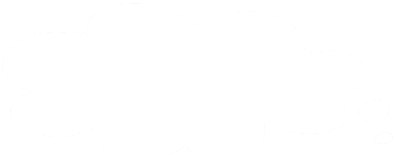
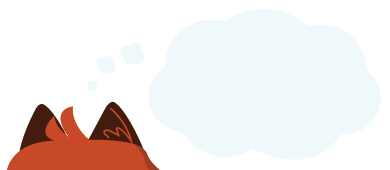
Ajustes gráficos de Toto

Changed region(s): [[0.0, 0.5935, 0.4308, 1.0]]

diff --git a/ejerciciosPilas/src/escenas/libroPrimaria/EscenaToto.ts b/ejerciciosPilas/src/escenas/libroPrimaria/EscenaToto.ts
@@ -40,7 +40,8 @@ abstract class EscenaToto extends EscenaDesdeMapa {
 
     ajustarGraficos() {
         this.automata.enviarAlFrente();
-        this.automata.escala *= this.escalaSegunCuadricula(1.8);
+        this.automata.escala *= this.escalaSegunCuadricula(1.6);
+        this.automata.setY(this.automata.getY() + this.automata.alto * 0.1)
     }
 
     mapearIdentificadorAActor(id, nroFila, nroColumna): ActorAnimado {
@@ -62,16 +63,17 @@ abstract class EscenaToto extends EscenaDesdeMapa {
         return 80;
     }
     opsCuadricula() {
-        return { ancho: 400, alto: 300 };
+        return { ancho: 360, alto: 280 };
     }
     opsCasilla() {
-        return { grilla: "casillas.toto.png", alto: this.mapaEscena.length === 1 ? 70 : undefined, cantColumnas: 16, bordesDecorados: true, relAspecto: 1 };
+        return { grilla: "casillas.toto.png", cantColumnas: 16, bordesDecorados: true, relAspecto: 1 };
     }
 
     construirCuadriculaSecundaria() : Cuadricula {
+        new ActorAnimado(0, -160, { grilla: this.pathCuadriculaSecundaria() })
         return new Cuadricula(
-            0, -170, 1, this.topeDeLetras,
-            { alto: 160 , ancho: 380, imagen: this.pathCuadriculaSecundaria()}, { grilla: 'invisible.png' }
+            70, -160, 1, this.topeDeLetras,
+            { alto: 160 , ancho: 210, imagen: 'invisible.png', separacionEntreCasillas: -24}, { grilla: 'invisible.png', relAspecto: 1 }
         );
     }
 

diff --git a/ejerciciosPilas/src/actores/libroPrimaria/Letra.ts b/ejerciciosPilas/src/actores/libroPrimaria/Letra.ts
@@ -67,12 +67,12 @@ class LetraTablero extends Letra {
 
 class LetraLeida extends Letra {
     pathImagen(): string {
-        return "actor.letra.secundaria.png";
+        return "actor.letra.leida.png";
     }
 }
 
 class LetraManuscrita extends Letra {
     pathImagen(): string {
-        return "actor.letra.secundaria.png";
+        return "actor.letra.manuscrita.png";
     }
 }

diff --git a/app/components/listaImagenes.js b/app/components/listaImagenes.js
@@ -11,8 +11,8 @@ export default [
     "actor.duba.png",
     "actor.ensaladera.png",
     "actor.lechuga.png",
-    "actor.letra.png",
-    "actor.letra.secundaria.png",
+    "actor.letra.leida.png",
+    "actor.letra.manuscrita.png",
     "actor.letra.tablero.png",
     "actor.lita.png",
     "actor.tomate.png",
